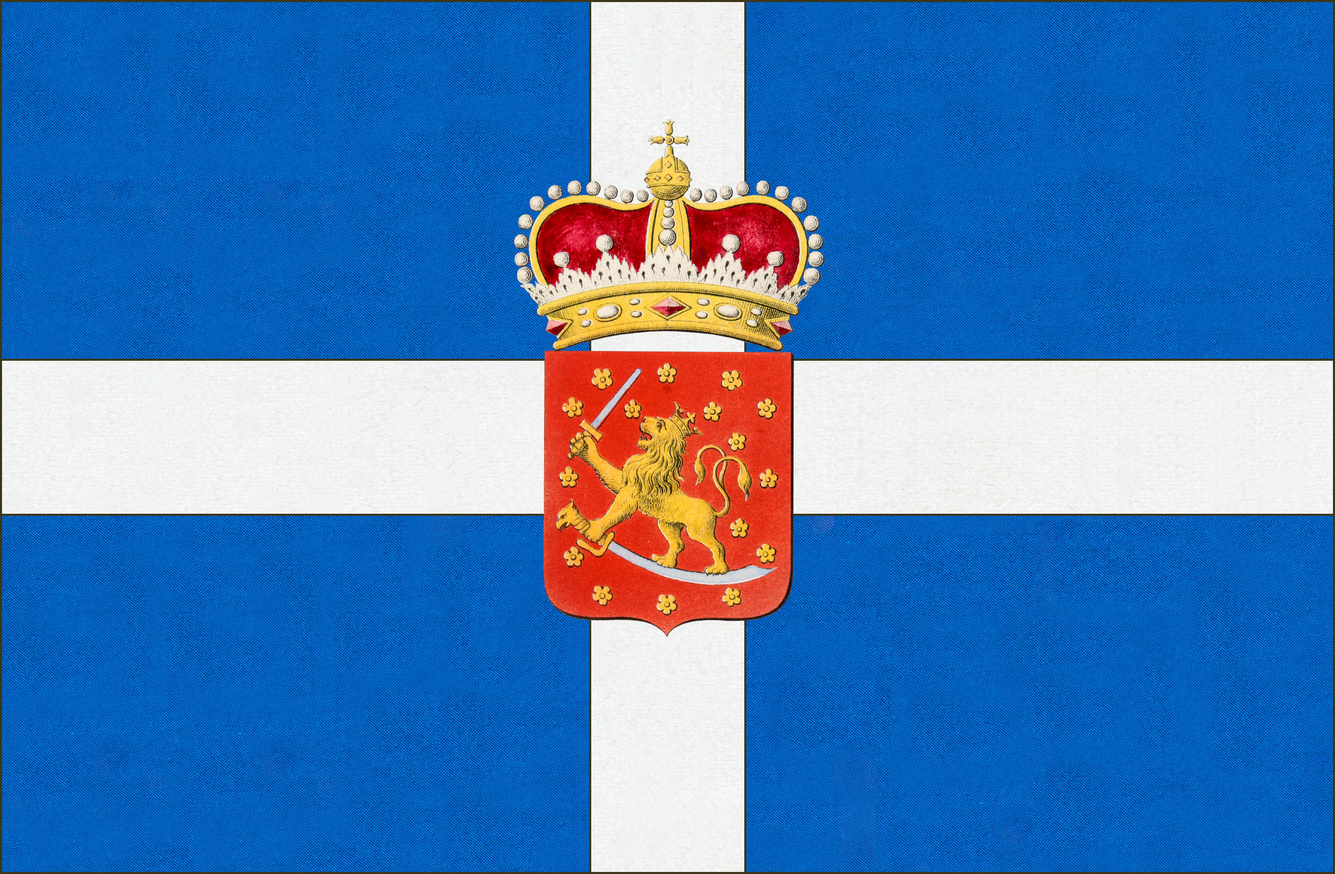
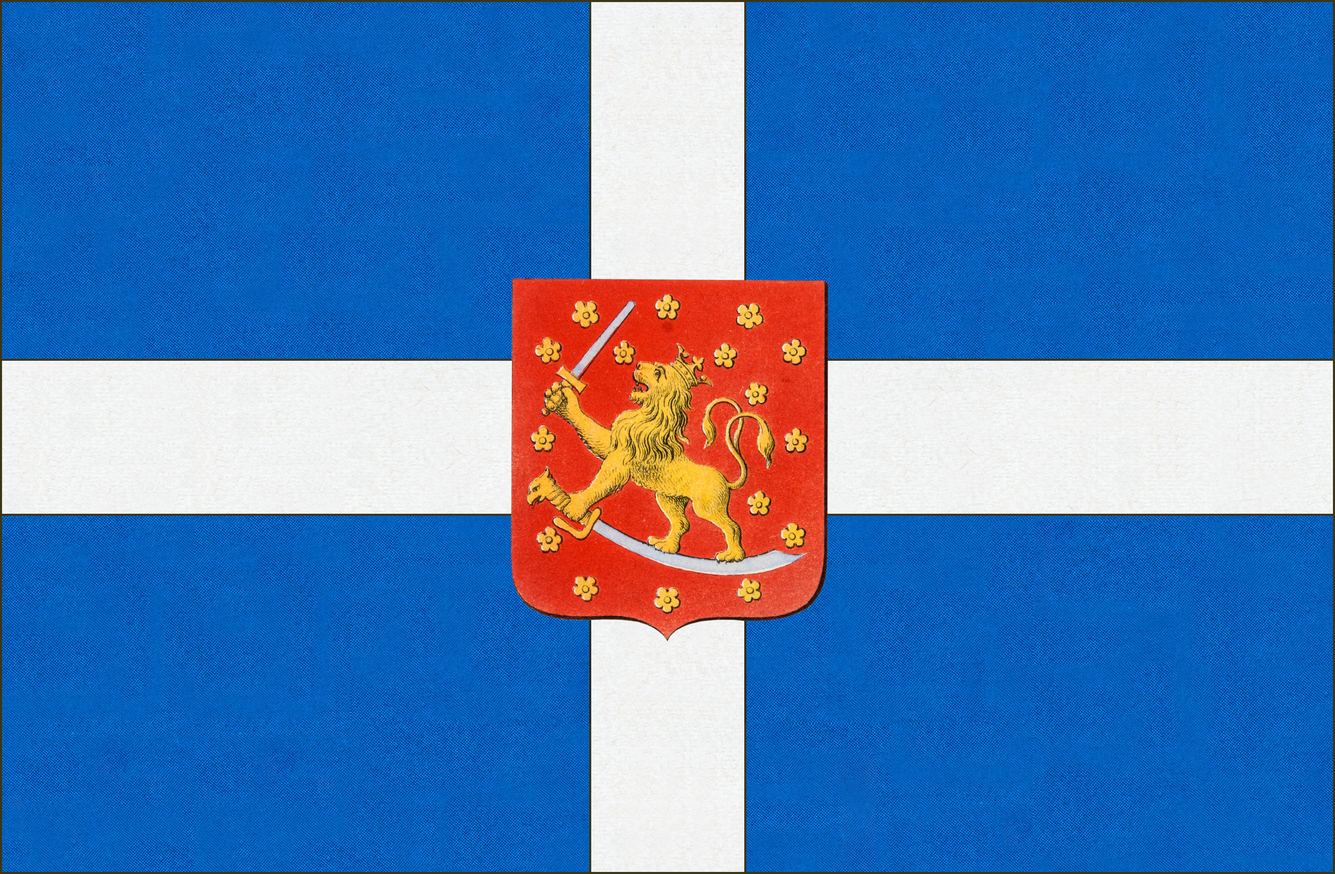
Update index.html

Changed region(s): [[0.0, 0.0, 0.7454, 0.8378]]

diff --git a/1860-luku.html b/1860-luku.html
@@ -29,9 +29,10 @@
             <li><a href="#16">Dagbladsflaggan</a></li>
             <li><a href="#17">Otto Donnerin ehdotus</a></li>
             <li><a href="#18">Helsingin Uutisten ehdotukset</a></li>
-            <li><a href="#19">Tapion ehdotus</a> </li>
-            <li><a href="#20">Maamieslippu</a></li>
-            <li><a href="#21">Muita ehdotuksia</a></li>
+            <li><a href="#19">Nimimerkki K:n ehdotus</a></li>
+            <li><a href="#20">Tapion ehdotus</a> </li>
+            <li><a href="#21">Maamieslippu</a></li>
+            <li><a href="#22">Muita ehdotuksia</a></li>
             <ul>
                 <li><a href="#221">Viipurilainen lippu</a></li>
                 <li><a href="#222">Ahvenanmaalta & Oulusta</a></li>
@@ -360,19 +361,50 @@
     <hr>
     <section>
 
-        <h2 id="19">Tapion ehdotus</h2>
+        <h2 id="19">Nimimerkki K:n ehdotus</h2>
+
+
+        <p>
+            Helsingfors Tidningarissa nimimerkki -k ehdotti 28.07.1863 Suomen lipuksi valkoristia sinisella taustalla.
+            Ristin keskelle tuli asettaa Suomen vaakuna, jotta se erottuisi Kreikan lipusta.
+        </p>
+
+        <img src="img/1863_kuopiossa.jpg" style="height: 250px" alt="Kuopio">
+
+        <p class="lainaus">
+            » Leveä, valkoinen latinalainen risti sinisellä pohjalla ei varmasti ole loistelias ja loistava lippu,
+            mutta se on kansallinen, koska sillä on vaatimaton alkuperämme; se on käytännöllinen, koska se tuo värit
+            helposti ja selvästi esiin; se on harmoninen, koska yksi väri ei millään tavalla häiritse toista. Meillä
+            ei tällä hetkellä ole käytössämme mitään lippukarttaa, mutta muistutamme, että jopa Kreikassa liputetaan
+            sinisellä lipulla jossa on valkoinen risti; erottaaksemme lippumme siitä ja antaaksemme sille kauniimman
+            ja siistimmän ulkonäön, mikään ei olisi kansallisempaa, kauniimpaa ja käytännöllisempää kuin sijoittaa
+            valkoisen ristin keskelle punainen vaakunamme, jossa on Suomen kultainen leijona. Vaakunan on tässä
+            tapauksessa oltava niin suuri, että sen kulmat ylittävät ristin kulmat; tämä ei häiritse värien harmoniaa,
+            vaan tekee lipusta käytännöllisemmän.  »
+            <a href=" https://digi.kansalliskirjasto.fi/sanomalehti/binding/1113752?page=2">[lähde]</a>
+        </p>
+
+
+
+        <h2 id="20">Tapion ehdotus</h2>
 
         <p>
             Kuopiolainen sanomalehti Tapio esitti oman ehdotuksensa 08.08.1863:
         </p>
 
         <p class="lainaus">
-            » Kuin nyt jokainen sanomalehti ja melkein joka mies, joka muka vähänkin
+            » Suomen laiva-lipuksi esitellyistä oli täällä viime tiistai-iltana eräässä erityisessä pito-tilaisuudessa
+            ripustettu nähtäväksi se Helsingfors Dagblad'in puolustama, punasella pohjalle asetettu keltanen pysty-risti
+            sinisillä reunuksilla. Tässä oli saapuvilla suurempi joukko, mutta niistä ei näyttänyt kovin moni puolustavan
+            tätä, moittien sitä useimmat liian kirjavaksi, liika punaiseksi ja jos joksikin. Moniaat puolustivat paremmaksi
+            <a href="#19">sinisellä pohjalla olevaa valkoista ristiä</a> ja siinä keskellä Suomen vaakuna, jota eroittaisi sen grekan
+            sota-lipusta. vaan meidän mielestä tämmöinen waakunan siihen asettaminen vaikistaisi näiden lippujen tekemistä
+            ja siis kallistaisi niitä.<br><br>Kuin nyt jokainen sanomalehti ja melkein joka mies, joka muka vähänkin
             tahtoo aikaansa seurata, näkyy pitävän velvollisuutenansa tekaista jonkun uuden lippu-ehdotuksen, niin ei
-            Tapiokaan tahdo olla Pekkoja pahempi ja siis ehdottelee Suomen lipun neljästä yhden kokoisesta, vähän soikeasta
-            kappaleesta, joista ommellaan kaksi runnakkain ja kaksi päällekkäin, niin että warren puolelle tulee walkonen
-            ylä- ja sininen alapuolelle, sekä kärkeen punanen ylös- ja keltanen alas. Valkoiseen voisi vielä jos niin tahtoisi,
-            panna Suomen waakunankin, esim. näin: »
+            Tapiokaan tahdo olla Pekkoja pahempi ja siis ehdottelee Suomen lipun neljästä yhden kokoisesta, vähän
+            soikeasta kappaleesta, joista ommellaan kaksi runnakkain ja kaksi päällekkäin, niin että warren puolelle
+            tulee walkonen ylä- ja sininen alapuolelle, sekä kärkeen punanen ylös- ja keltanen alas. Valkoiseen voisi
+            vielä jos niin tahtoisi, panna Suomen waakunankin, esim. näin: »
             <a href="https://digi.kansalliskirjasto.fi/sanomalehti/binding/441387?term=lippujen&term=lipun&page=1" target=”_blank”>[lähde]</a>
         </p>
 
@@ -397,7 +429,7 @@
     <hr>
     <section>
 
-    <h2 id="20">Maamieslippu</h2>
+    <h2 id="21">Maamieslippu</h2>
 
         <p>
             Tuntemattomaksi jäänyt nimimerkki "Maamies" ehdotti Helsingin Uutisissa 05.10.1863 seuraavanlaista lippua:
@@ -420,7 +452,7 @@
     <hr>
     <section>
 
-        <h2 id="21">Muita ehdotuksia</h2>
+        <h2 id="22">Muita ehdotuksia</h2>
 
         <p>Muita lippukeskustelun aikana mainittuja lippuja joiden tarkka alkuperä ei ole tiedossa. </p>
 
@@ -461,23 +493,6 @@
         <img src="img/1863_ahvenanmaa.JPG" style="height: 250px" alt="Ahvenanmaa">
         <img src="img/1863_oululainen.jpg" style="height: 250px" alt="Oululaisen">
 
-        <h3 id="223" class="yksityiset">Kuopion lipputilaisuus</h3>
-        <p>
-            Sanomalehti Tapio kertoi tilaisuudesta Kuopiossa jossa ylistettiin sinitaustaista valkoristilippua:
-        </p>
-
-        <p class="lainaus">
-            » Suomen laiva-lipuksi esitellyistä oli täällä viime tiistai-iltana eräässä erityisessä pito-tilaisuudessa
-            ripustettu nähtäväksi se Helsingfors Dagblad'in puolustama, punasella pohjalle asetettu keltanen pysty-risti
-            sinisillä reunuksilla. Tässä oli saapuvilla suurempi joukko, mutta niistä ei näyttänyt kovin moni puolustavan
-            tätä, moittien sitä useimmat liian kirjavaksi, liika punaiseksi ja jos joksikin. Moniaat puolustivat paremmaksi
-            sinisellä pohjalla olevaa valkoista ristiä ja siinä keskellä Suomen vaakuna, jota eroittaisi sen grekan
-            sota-lipusta. vaan meidän mielestä tämmöinen waakunan siihen asettaminen vaikistaisi näiden lippujen tekemistä
-            ja siis kallistaisi niitä.»
-            <a href="https://digi.kansalliskirjasto.fi/sanomalehti/binding/441387?term=lippujen&term=lipun&page=1" target=”_blank”>[lähde]</a>
-        </p>
-
-        <img src="img/1863_kuopiossa.jpg" style="height: 250px" alt="Kuopio">
 
         <h3 id="224" class="yksityiset">Helsingfors Dagbladissa mainitut</h3>
 
@@ -501,7 +516,7 @@
             kuten on myös ehdotettu, saadaan lippu joka kuvaa kreikkalais-venäläistä liittoa, mutta ei Suomea mitenkään. </u>
             (...) <br> <br>Lisäksi Kreikan lipulla on se vika, että se katoaa horisonttiin melko lyhyellä etäisyydellä.
             Sinitaustaista lippua on vaikea erottaa kaukaa ja valkoinen risti siinä katoaa helposti. Sininen luterilainen
-            risti valkoisella pohjalla (kuten Uuden-Seelannin metsästysseuran lippu) on epäilemättä parempi vaihtoehto.
+            risti valkoisella pohjalla (kuten <a href="kauppaliput.html#3">Nyländska Jaktklubbenin lipussa</a>) on epäilemättä parempi vaihtoehto.
             Valitettavasti Marseillen kaupunki on ominut tämän sommitelman. <u> Keltainen risti, jossa on siniset reunat
             valkoisella pohjalla, kuten on myös ehdotettu, olisi ehkä varsin kaunis lähietäisyydeltä. Nämä värit ovat
             kuitenkin liian heikkoja, jotta ne tekisivät vaikutuksen meren ja ilman vaihtelua vasten.</u> »

diff --git a/itsenaisyys.html b/itsenaisyys.html
@@ -128,8 +128,6 @@
     <img src="img/1918_louhivuori.jpg" style="height: 250px" alt="Senaattori Louhivuoren ehdotus">
     <img src="img/1918_pehkonen.jpg" style="height: 250px" alt="Senaattori Pehkosen ehdotus">
 
-
-
 </section>
 <hr>
 <section>
@@ -218,7 +216,7 @@
         <a href="https://digi.kansalliskirjasto.fi/aikakausi/binding/1357354?page=72" target=”_blank”>[lähde]</a>
     </p>
 
-    <h3 id="331" class="yksityiset">Estlander ehdotus</h3>
+    <h3 id="331" class="yksityiset">Estlanderin ehdotus kauppalipuksi</h3>
     <p>
         Edustaja Ernst Estlander puolusti leijonalippua ja ehdotti kauppalipuksi joko
         <a href="#32">Senaattori Pehkosen ehdotusta ennen sisällissotaa,</a><br> tai
@@ -238,7 +236,7 @@
         esiintyvät 9 valkoista ruusua. Mutta voisi myöskin jakaa alan aivan yksinkertaisesti siniseen ja valkoiseen,
         mikä menettely ehkä olisi parempikin, koska tähtimäisille merkeille lipun alassa yleensä annetaan erikoinen
         merkitys, niitä kun käytetään ilmaisemaan valtioliittoon kuuluvien liittovaltioiden lukua. »
-        <a href="lahde.html" target=”_blank”>[Kajanti 1983: 446-447]</a>
+        <a href="https://digi.kansalliskirjasto.fi/aikakausi/binding/1357387?page=117" target=”_blank”>[lähde]</a>
     </p>
 
     <h3 id="332" class="yksityiset">Kompromissiehdotuksia</h3>
@@ -461,8 +459,10 @@
 
     <img src="img/1918_laivapaallystoliitto_1.jpg" style="height: 250px" alt="liitto1">
     <img src="img/1918_laivapaallystoliitto_2.jpg" style="height: 250px" alt="liitto2">
-    <img src="img/1918_laivapaallystoliitto_4.jpg" style="height: 250px" alt="liitto4">
     <img src="img/1918_laivapaallystoliitto_3.jpg" style="height: 250px" alt="liitto3">
+    <img src="img/1918_laivapaallystoliitto_4.jpg" style="height: 250px" alt="liitto4">
+    <img src="img/1918_laivapaallystoliitto_5.jpg" style="height: 250px" alt="liitto5">
+    <img src="img/1918_laivapaallystoliitto_8.jpg" style="height: 250px" alt="liitto8">
 
     <h3 id="338" class="yksityiset">Suomen Taiteilijaseuran ehdotus</h3>
     <p>

diff --git a/sortokaudet.html b/sortokaudet.html
@@ -63,8 +63,8 @@
 
         <p>
             Vuoden 1905 suurlakon jälkeen, kun venäläistämistoimet hellittivät väliaikaisesti, eräs lukija ihmetteli
-            Uusi-Suometar lehdessä mikä oli suomalaisen liputuksen tilanne ja ehdotti Suomen lipuksi jo yleisesti
-            käytettyä siniristilippua.
+            Uusi-Suometar lehdessä mikä oli suomalaisen liputuksen tilanne ja ehdotti Suomen lipuksi siniristilippua, jota
+            siihen aikaan jo käytettiin.
         </p>
 
         <p class="lainaus">

diff --git a/kauppaliput.html b/kauppaliput.html
@@ -94,7 +94,7 @@
 <hr>
 
  <section>
-     <h2>Pursiseurojen liput</h2>
+     <h2 id="#3">Pursiseurojen liput</h2>
      <p>kesken...</p>
  </section>
 
